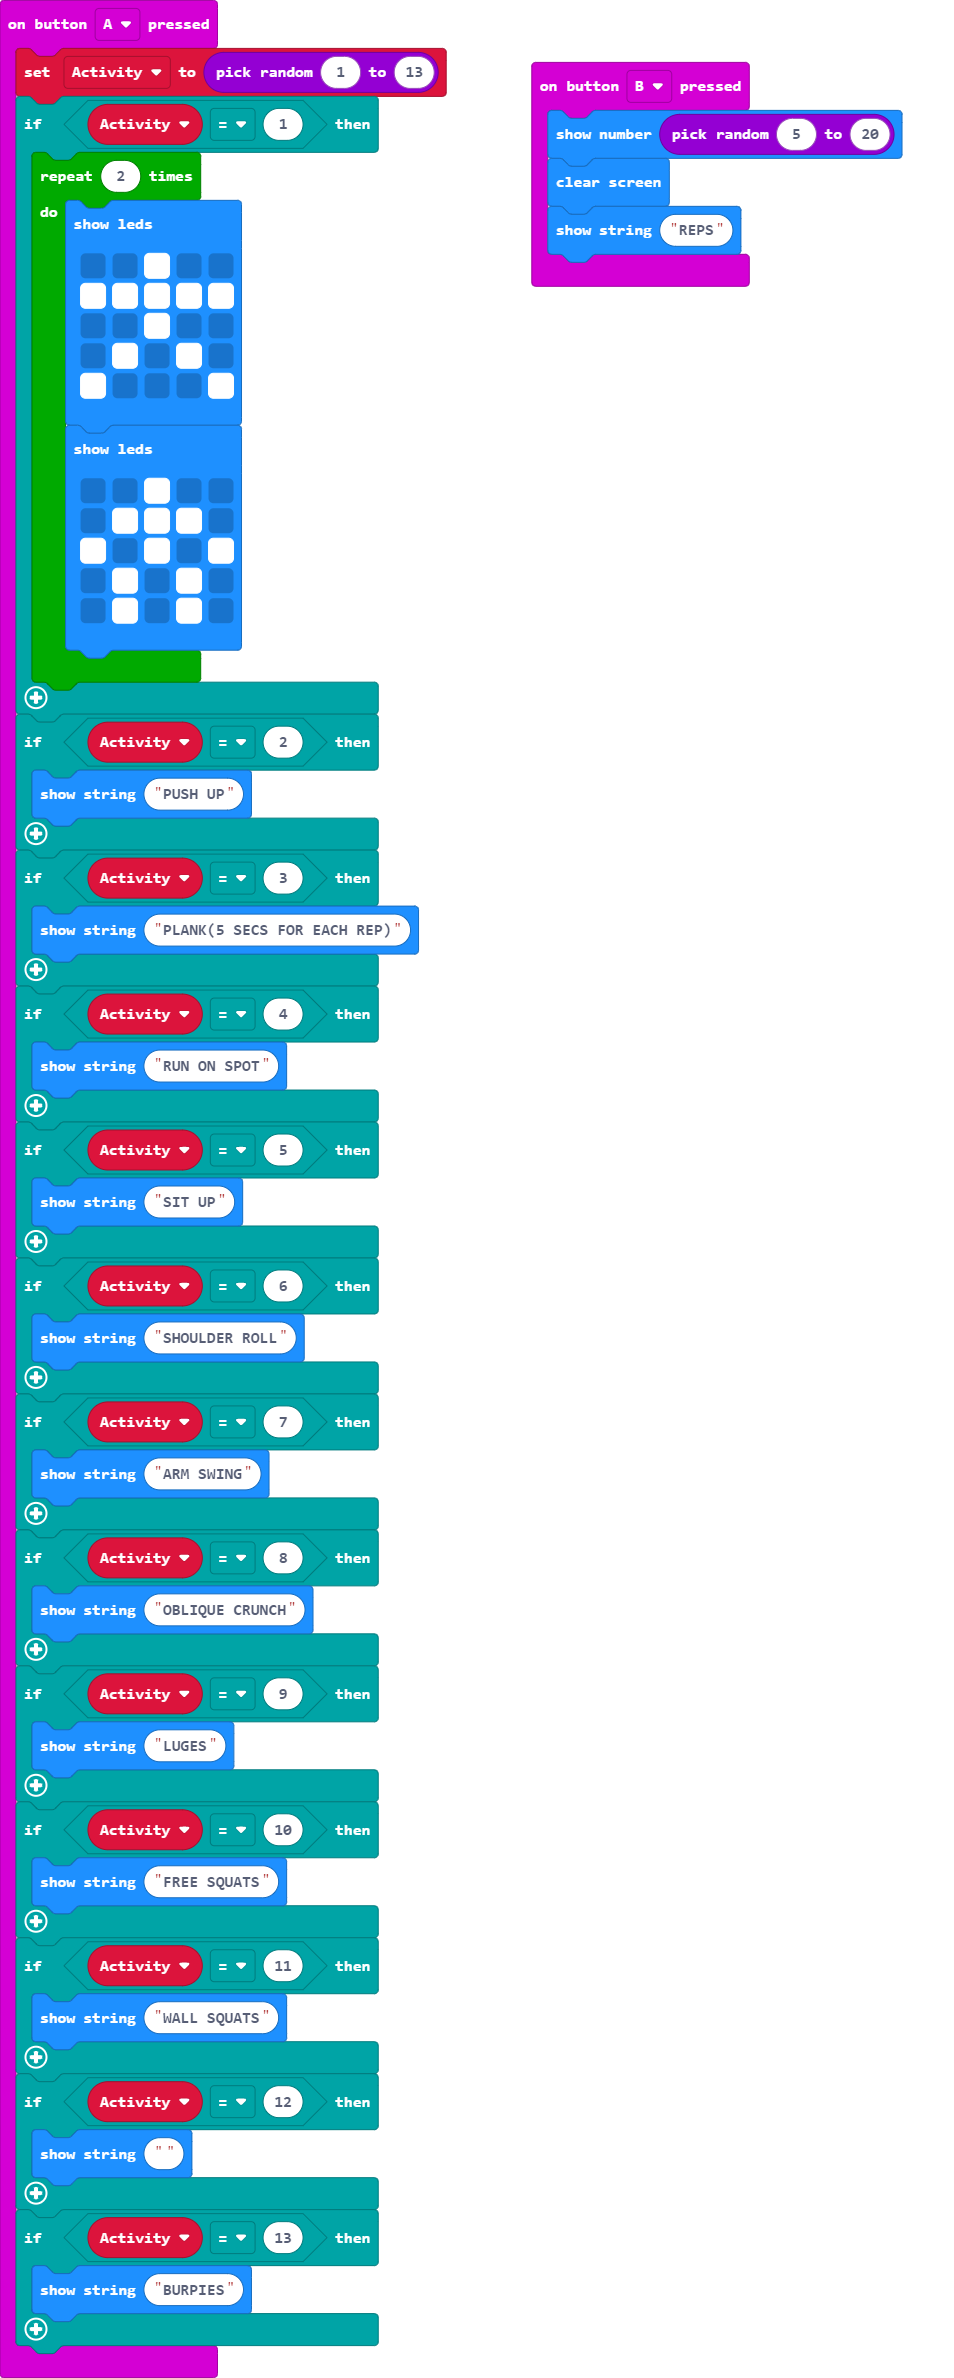
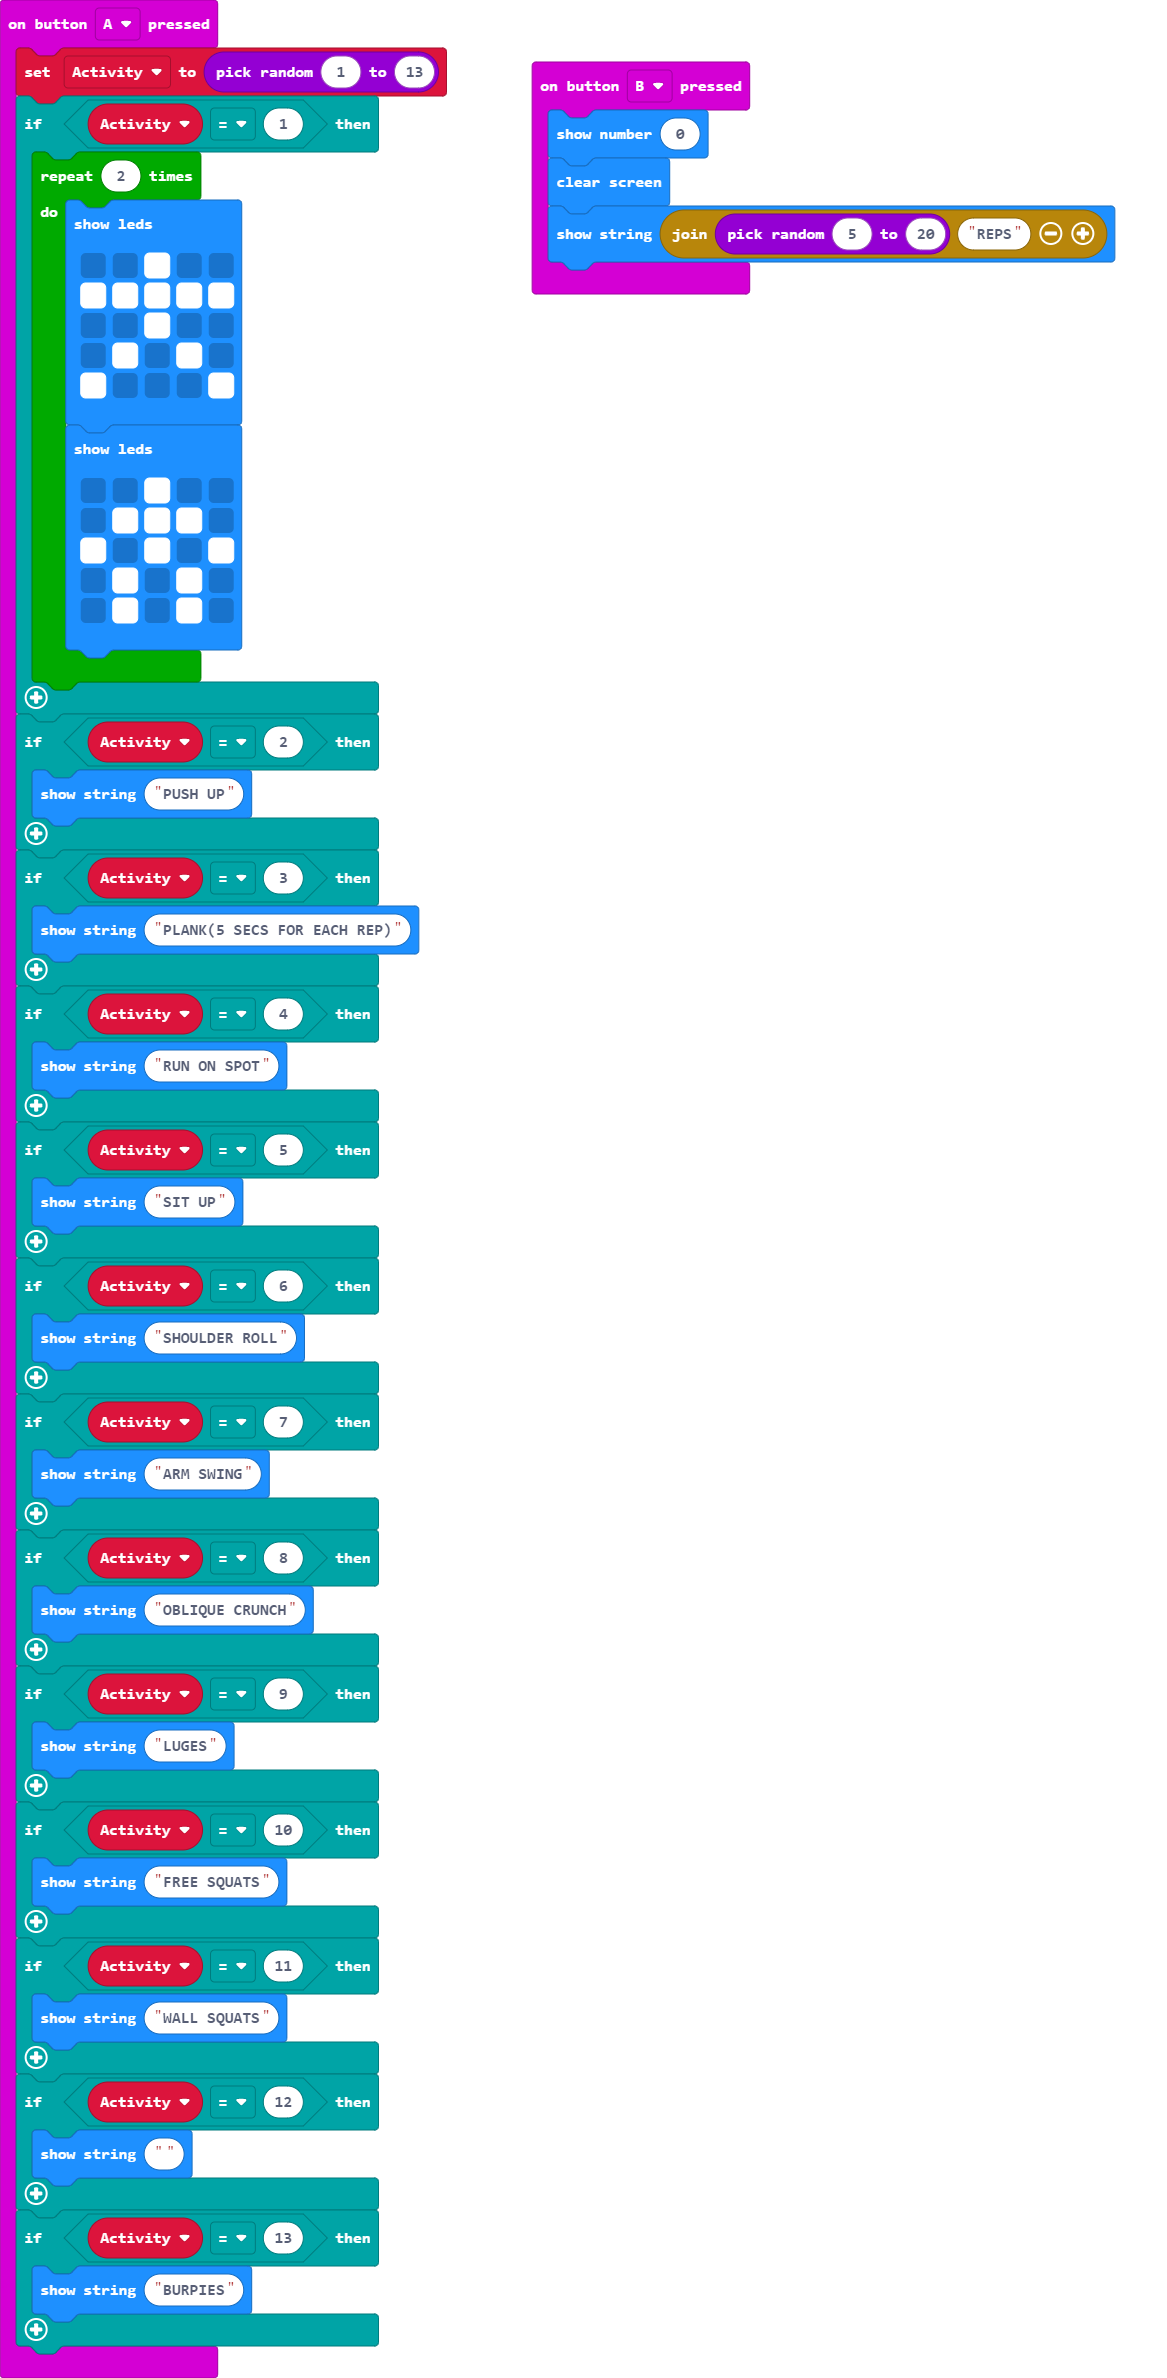
Update main.blocks, main.ts

Changed region(s): [[0.0, 0.0, 0.9727, 1.0]]

diff --git a/main.ts b/main.ts
@@ -57,7 +57,7 @@ input.onButtonPressed(Button.A, function () {
     }
 })
 input.onButtonPressed(Button.B, function () {
-    basic.showNumber(randint(5, 20))
+    basic.showNumber(0)
     basic.clearScreen()
-    basic.showString("REPS")
+    basic.showString("" + randint(5, 20) + "REPS")
 })
